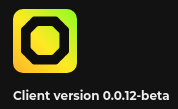
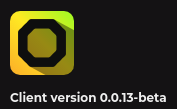
update readme

Changed region(s): [[0.0565, 0.0826, 0.452, 0.6881], [0.0565, 0.7982, 0.9605, 0.9358]]

diff --git a/README.md b/README.md
@@ -2,7 +2,8 @@
 
 ![](promo.png)
 
-:construction: **!WARNING!** Both the client the back-end are in their beta stage right now. :construction:
+:construction: **!WARNING!** Both the client the back-end are in their beta stage right now. :construction:\
+Latest version: **0.0.13**
 
 ## Contributing
 We ask of you here the same things we ask of you when you use our service: be kind and respectful to people. Treat every cotribution equally no matter its size. Even if it's just a letter change in a comment somewhere. Even if it's just a tiny bug report.
